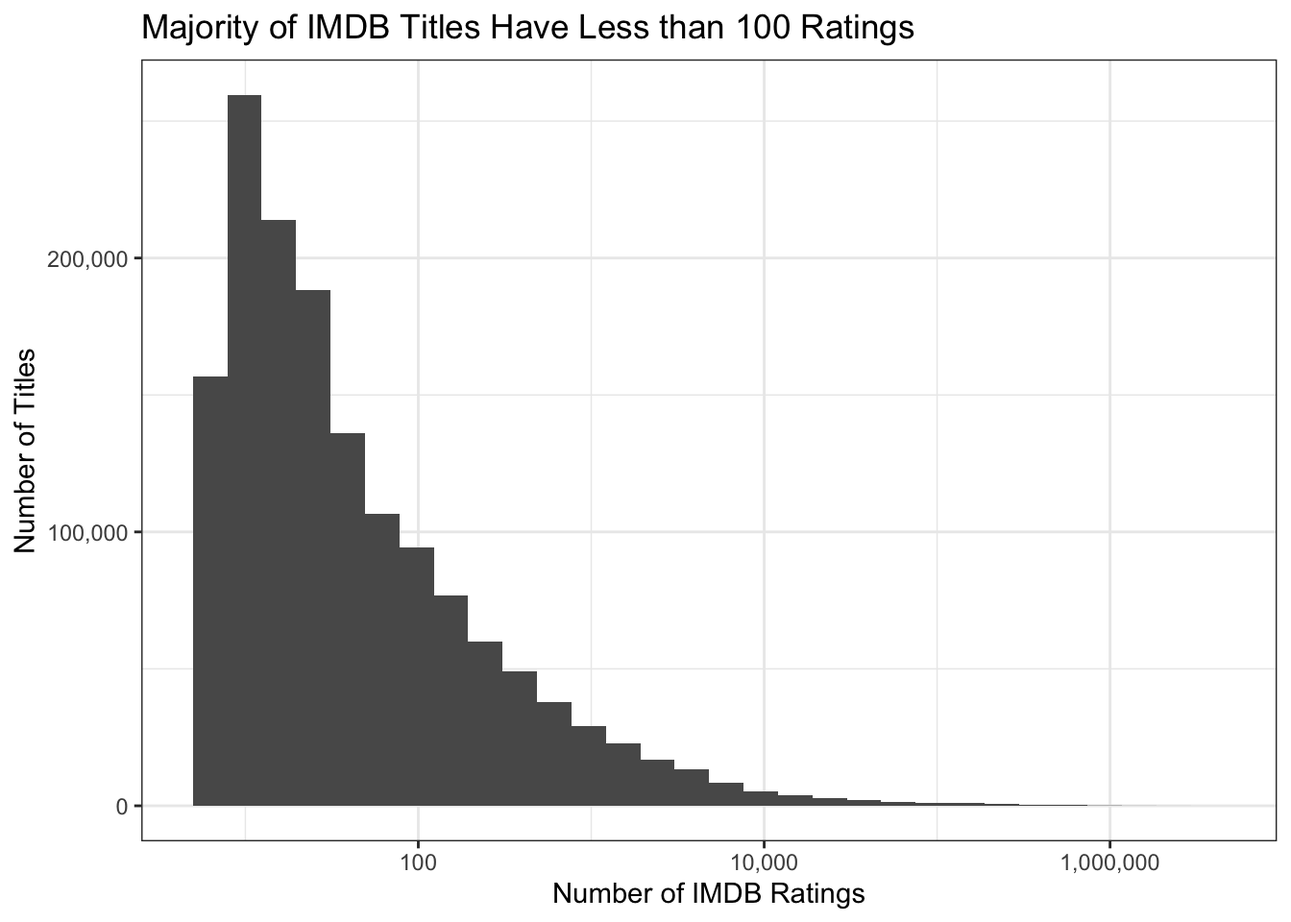
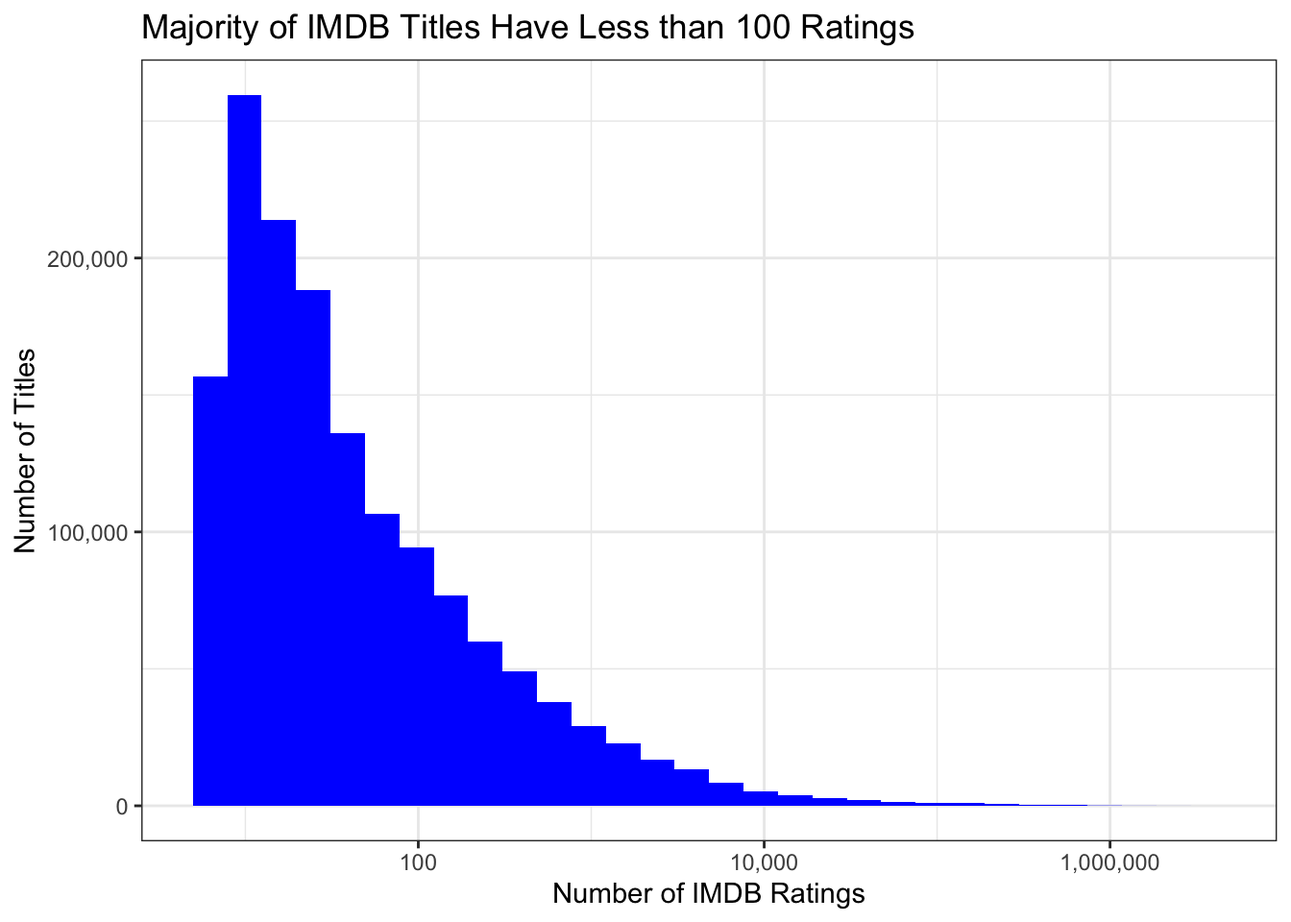
3rd commit

Changed region(s): [[0.125, 0.0938, 0.7188, 0.875]]

diff --git a/docs/MP02.html b/docs/MP02.html
@@ -180,7 +180,7 @@ pre > code.sourceCode > span > a:first-child::before { text-decoration: underlin
 <div class="sourceCode cell-code" id="cb1"><pre class="sourceCode r code-with-copy"><code class="sourceCode r"><span id="cb1-1"><a href="#cb1-1" aria-hidden="true" tabindex="-1"></a><span class="fu">library</span>(ggplot2)</span>
 <span id="cb1-2"><a href="#cb1-2" aria-hidden="true" tabindex="-1"></a>TITLE_RATINGS <span class="sc">|&gt;</span></span>
 <span id="cb1-3"><a href="#cb1-3" aria-hidden="true" tabindex="-1"></a>    <span class="fu">ggplot</span>(<span class="fu">aes</span>(<span class="at">x=</span>numVotes)) <span class="sc">+</span> </span>
-<span id="cb1-4"><a href="#cb1-4" aria-hidden="true" tabindex="-1"></a>    <span class="fu">geom_histogram</span>(<span class="at">bins=</span><span class="dv">30</span>) <span class="sc">+</span></span>
+<span id="cb1-4"><a href="#cb1-4" aria-hidden="true" tabindex="-1"></a>    <span class="fu">geom_histogram</span>(<span class="at">bins=</span><span class="dv">30</span>,<span class="at">fill=</span><span class="st">'blue'</span>) <span class="sc">+</span></span>
 <span id="cb1-5"><a href="#cb1-5" aria-hidden="true" tabindex="-1"></a>    <span class="fu">xlab</span>(<span class="st">"Number of IMDB Ratings"</span>) <span class="sc">+</span> </span>
 <span id="cb1-6"><a href="#cb1-6" aria-hidden="true" tabindex="-1"></a>    <span class="fu">ylab</span>(<span class="st">"Number of Titles"</span>) <span class="sc">+</span> </span>
 <span id="cb1-7"><a href="#cb1-7" aria-hidden="true" tabindex="-1"></a>    <span class="fu">ggtitle</span>(<span class="st">"Majority of IMDB Titles Have Less than 100 Ratings"</span>) <span class="sc">+</span> </span>
@@ -514,8 +514,8 @@ Caused by warning:
 <span id="cb31-12"><a href="#cb31-12" aria-hidden="true" tabindex="-1"></a>  <span class="at">pageLength =</span> <span class="dv">5</span>))</span></code><button title="Copy to Clipboard" class="code-copy-button"><i class="bi"></i></button></pre></div>
 </details>
 <div class="cell-output-display">
-<div class="datatables html-widget html-fill-item" id="htmlwidget-7efa1893bc1eca686317" style="width:100%;height:auto;"></div>
-<script type="application/json" data-for="htmlwidget-7efa1893bc1eca686317">{"x":{"filter":"top","vertical":false,"filterHTML":"<tr>\n  <td><\/td>\n  <td data-type=\"character\" style=\"vertical-align: top;\">\n    <div class=\"form-group has-feedback\" style=\"margin-bottom: auto;\">\n      <input type=\"search\" placeholder=\"All\" class=\"form-control\" style=\"width: 100%;\"/>\n      <span class=\"glyphicon glyphicon-remove-circle form-control-feedback\"><\/span>\n    <\/div>\n  <\/td>\n  <td data-type=\"number\" style=\"vertical-align: top;\">\n    <div class=\"form-group has-feedback\" style=\"margin-bottom: auto;\">\n      <input type=\"search\" placeholder=\"All\" class=\"form-control\" style=\"width: 100%;\"/>\n      <span class=\"glyphicon glyphicon-remove-circle form-control-feedback\"><\/span>\n    <\/div>\n    <div style=\"display: none;position: absolute;width: 200px;opacity: 1\">\n      <div data-min=\"9.5\" data-max=\"9.7\" data-scale=\"1\"><\/div>\n      <span style=\"float: left;\"><\/span>\n      <span style=\"float: right;\"><\/span>\n    <\/div>\n  <\/td>\n  <td data-type=\"integer\" style=\"vertical-align: top;\">\n    <div class=\"form-group has-feedback\" style=\"margin-bottom: auto;\">\n      <input type=\"search\" placeholder=\"All\" class=\"form-control\" style=\"width: 100%;\"/>\n      <span class=\"glyphicon glyphicon-remove-circle form-control-feedback\"><\/span>\n    <\/div>\n    <div style=\"display: none;position: absolute;width: 200px;opacity: 1\">\n      <div data-min=\"1\" data-max=\"3\"><\/div>\n      <span style=\"float: left;\"><\/span>\n      <span style=\"float: right;\"><\/span>\n    <\/div>\n  <\/td>\n<\/tr>","data":[["1","2","3","4","5","6","7","8","9","10","11","12","13","14","15","16","17","18","19","20","21","22","23","24","25","26","27","28","29","30","31","32","33","34","35"],["Prime Time","Choufli Hal","Friday Five Sharp","Craft Games","Jogandofoddaci","Dylan Is In Trouble","Amrutham","Coke Studio Pakistan","Upanishad Ganga","Marmadesam","The Why Files","OneyPlays","De'ah Da'iah","Microwave Society","Gumbino","Kothao Keu Nei","Breaking Bad","Minecraft Epic","Unus Annus","Herne Katha","Viva La Dirt League","Freaking Fucking Games","Internet Comment Etiquette","Geografens testamente","Londra Merkez","Train Guy","Stampy's Lovely World","LuxuryDark","Barstool Yak","SuperMega","Shriyut Gangadhar Tipre","Kino+","Raja Shivchhatrapati","Sakin Sarisuri","I stin Alpha i sti Vita oloi pan gia ti marmita"],[9.699999999999999,9.699999999999999,9.699999999999999,9.699999999999999,9.699999999999999,9.6,9.6,9.6,9.6,9.6,9.6,9.6,9.6,9.6,9.6,9.6,9.5,9.5,9.5,9.5,9.5,9.5,9.5,9.5,9.5,9.5,9.5,9.5,9.5,9.5,9.5,9.5,9.5,9.5,9.5],[1,1,1,1,1,2,2,2,2,2,2,2,2,2,2,2,3,3,3,3,3,3,3,3,3,3,3,3,3,3,3,3,3,3,3]],"container":"<table class=\"display\">\n  <thead>\n    <tr>\n      <th> <\/th>\n      <th>primaryTitle<\/th>\n      <th>averageRating<\/th>\n      <th>rank<\/th>\n    <\/tr>\n  <\/thead>\n<\/table>","options":{"pageLength":5,"columnDefs":[{"className":"dt-right","targets":[2,3]},{"orderable":false,"targets":0},{"name":" ","targets":0},{"name":"primaryTitle","targets":1},{"name":"averageRating","targets":2},{"name":"rank","targets":3}],"order":[],"autoWidth":false,"orderClasses":false,"orderCellsTop":true,"lengthMenu":[5,10,25,50,100]}},"evals":[],"jsHooks":[]}</script>
+<div class="datatables html-widget html-fill-item" id="htmlwidget-d1aaddb601b54985b06d" style="width:100%;height:auto;"></div>
+<script type="application/json" data-for="htmlwidget-d1aaddb601b54985b06d">{"x":{"filter":"top","vertical":false,"filterHTML":"<tr>\n  <td><\/td>\n  <td data-type=\"character\" style=\"vertical-align: top;\">\n    <div class=\"form-group has-feedback\" style=\"margin-bottom: auto;\">\n      <input type=\"search\" placeholder=\"All\" class=\"form-control\" style=\"width: 100%;\"/>\n      <span class=\"glyphicon glyphicon-remove-circle form-control-feedback\"><\/span>\n    <\/div>\n  <\/td>\n  <td data-type=\"number\" style=\"vertical-align: top;\">\n    <div class=\"form-group has-feedback\" style=\"margin-bottom: auto;\">\n      <input type=\"search\" placeholder=\"All\" class=\"form-control\" style=\"width: 100%;\"/>\n      <span class=\"glyphicon glyphicon-remove-circle form-control-feedback\"><\/span>\n    <\/div>\n    <div style=\"display: none;position: absolute;width: 200px;opacity: 1\">\n      <div data-min=\"9.5\" data-max=\"9.7\" data-scale=\"1\"><\/div>\n      <span style=\"float: left;\"><\/span>\n      <span style=\"float: right;\"><\/span>\n    <\/div>\n  <\/td>\n  <td data-type=\"integer\" style=\"vertical-align: top;\">\n    <div class=\"form-group has-feedback\" style=\"margin-bottom: auto;\">\n      <input type=\"search\" placeholder=\"All\" class=\"form-control\" style=\"width: 100%;\"/>\n      <span class=\"glyphicon glyphicon-remove-circle form-control-feedback\"><\/span>\n    <\/div>\n    <div style=\"display: none;position: absolute;width: 200px;opacity: 1\">\n      <div data-min=\"1\" data-max=\"3\"><\/div>\n      <span style=\"float: left;\"><\/span>\n      <span style=\"float: right;\"><\/span>\n    <\/div>\n  <\/td>\n<\/tr>","data":[["1","2","3","4","5","6","7","8","9","10","11","12","13","14","15","16","17","18","19","20","21","22","23","24","25","26","27","28","29","30","31","32","33","34","35"],["Prime Time","Choufli Hal","Friday Five Sharp","Craft Games","Jogandofoddaci","Dylan Is In Trouble","Amrutham","Coke Studio Pakistan","Upanishad Ganga","Marmadesam","The Why Files","OneyPlays","De'ah Da'iah","Microwave Society","Gumbino","Kothao Keu Nei","Breaking Bad","Minecraft Epic","Unus Annus","Herne Katha","Viva La Dirt League","Freaking Fucking Games","Internet Comment Etiquette","Geografens testamente","Londra Merkez","Train Guy","Stampy's Lovely World","LuxuryDark","Barstool Yak","SuperMega","Shriyut Gangadhar Tipre","Kino+","Raja Shivchhatrapati","Sakin Sarisuri","I stin Alpha i sti Vita oloi pan gia ti marmita"],[9.699999999999999,9.699999999999999,9.699999999999999,9.699999999999999,9.699999999999999,9.6,9.6,9.6,9.6,9.6,9.6,9.6,9.6,9.6,9.6,9.6,9.5,9.5,9.5,9.5,9.5,9.5,9.5,9.5,9.5,9.5,9.5,9.5,9.5,9.5,9.5,9.5,9.5,9.5,9.5],[1,1,1,1,1,2,2,2,2,2,2,2,2,2,2,2,3,3,3,3,3,3,3,3,3,3,3,3,3,3,3,3,3,3,3]],"container":"<table class=\"display\">\n  <thead>\n    <tr>\n      <th> <\/th>\n      <th>primaryTitle<\/th>\n      <th>averageRating<\/th>\n      <th>rank<\/th>\n    <\/tr>\n  <\/thead>\n<\/table>","options":{"pageLength":5,"columnDefs":[{"className":"dt-right","targets":[2,3]},{"orderable":false,"targets":0},{"name":" ","targets":0},{"name":"primaryTitle","targets":1},{"name":"averageRating","targets":2},{"name":"rank","targets":3}],"order":[],"autoWidth":false,"orderClasses":false,"orderCellsTop":true,"lengthMenu":[5,10,25,50,100]}},"evals":[],"jsHooks":[]}</script>
 </div>
 </div>
 </section>
@@ -563,7 +563,7 @@ Caused by warning:
 <span id="cb33-2"><a href="#cb33-2" aria-hidden="true" tabindex="-1"></a>  <span class="fu">geom_point</span>(<span class="at">size =</span> <span class="fl">2.5</span>, <span class="at">color =</span> <span class="st">"purple"</span>) <span class="sc">+</span></span>
 <span id="cb33-3"><a href="#cb33-3" aria-hidden="true" tabindex="-1"></a>  <span class="fu">geom_smooth</span>(<span class="at">se =</span> <span class="cn">FALSE</span>)<span class="sc">+</span></span>
 <span id="cb33-4"><a href="#cb33-4" aria-hidden="true" tabindex="-1"></a>  <span class="fu">labs</span>(<span class="at">title =</span> <span class="st">"Average Ratings of Happy Days by Season"</span>,</span>
-<span id="cb33-5"><a href="#cb33-5" aria-hidden="true" tabindex="-1"></a>       <span class="at">y =</span> <span class="st">"Average Rating"</span>, <span class="at">x =</span> <span class="st">"Season Number"</span>) <span class="sc">+</span></span>
+<span id="cb33-5"><a href="#cb33-5" aria-hidden="true" tabindex="-1"></a>       <span class="at">y =</span> <span class="st">"Seasonal Average Rating"</span>, <span class="at">x =</span> <span class="st">"Season Number"</span>) <span class="sc">+</span></span>
 <span id="cb33-6"><a href="#cb33-6" aria-hidden="true" tabindex="-1"></a>  <span class="fu">theme_bw</span>()</span></code><button title="Copy to Clipboard" class="code-copy-button"><i class="bi"></i></button></pre></div>
 </details>
 <div class="cell-output-display">
@@ -574,9 +574,7 @@ Caused by warning:
 </div>
 </div>
 </div>
-<p>The above chart shows more clearly that were was a decline in rating as the show went on it was trending upwards towards the last few seasons. This indicates the show runners might have caught on to declining ratings and made changes to account for it.</p>
-<section id="animated" class="level4">
-<h4 class="anchored" data-anchor-id="animated">Animated</h4>
+<p>The above chart shows more clearly that were was a decline in rating as the show went on it was trending upwards towards the last few seasons. This indicates the show runners might have caught on to declining ratings and made changes to account for it. Using an animation we can see how drastic the drop from the trend was.</p>
 <div class="cell">
 <details class="code-fold">
 <summary>Show the code</summary>
@@ -584,12 +582,15 @@ Caused by warning:
 <span id="cb34-2"><a href="#cb34-2" aria-hidden="true" tabindex="-1"></a> </span>
 <span id="cb34-3"><a href="#cb34-3" aria-hidden="true" tabindex="-1"></a><span class="fu">ggplot</span>(happy_days, <span class="fu">aes</span>(<span class="at">x =</span> seasonNumber, <span class="at">y =</span> season_average)) <span class="sc">+</span></span>
 <span id="cb34-4"><a href="#cb34-4" aria-hidden="true" tabindex="-1"></a>  <span class="fu">geom_point</span>(<span class="at">size =</span> <span class="dv">4</span>, <span class="at">color =</span> <span class="st">"purple"</span>) <span class="sc">+</span></span>
-<span id="cb34-5"><a href="#cb34-5" aria-hidden="true" tabindex="-1"></a>  <span class="fu">geom_line</span>(<span class="fu">aes</span>(<span class="at">y =</span> smooth_vals), <span class="at">colour =</span> <span class="st">"darkblue"</span>,<span class="at">linewidth =</span> <span class="dv">2</span>,<span class="at">linetype =</span> <span class="st">'dotdash'</span>) <span class="sc">+</span></span>
-<span id="cb34-6"><a href="#cb34-6" aria-hidden="true" tabindex="-1"></a>  <span class="fu">labs</span>(<span class="at">title =</span> <span class="st">"Average Ratings of Happy Days by Season"</span>, <span class="at">y =</span> <span class="st">"Average Rating"</span>, <span class="at">x =</span> <span class="st">"Season Number"</span>) <span class="sc">+</span></span>
-<span id="cb34-7"><a href="#cb34-7" aria-hidden="true" tabindex="-1"></a>  <span class="fu">theme_bw</span>() <span class="sc">+</span></span>
-<span id="cb34-8"><a href="#cb34-8" aria-hidden="true" tabindex="-1"></a>  <span class="fu">theme</span>(<span class="at">axis.text.x =</span> <span class="fu">element_blank</span>()) <span class="sc">+</span></span>
-<span id="cb34-9"><a href="#cb34-9" aria-hidden="true" tabindex="-1"></a>  <span class="fu">transition_reveal</span>(seasonNumber) <span class="sc">+</span></span>
-<span id="cb34-10"><a href="#cb34-10" aria-hidden="true" tabindex="-1"></a>  <span class="fu">ease_aes</span>(<span class="st">'linear'</span>)</span></code><button title="Copy to Clipboard" class="code-copy-button"><i class="bi"></i></button></pre></div>
+<span id="cb34-5"><a href="#cb34-5" aria-hidden="true" tabindex="-1"></a>  <span class="fu">geom_line</span>(<span class="fu">aes</span>(<span class="at">y =</span> smooth_vals, <span class="at">color =</span> <span class="st">"Predicted Trend"</span>), <span class="at">linewidth =</span> <span class="dv">2</span>, <span class="at">linetype =</span> <span class="st">'dotdash'</span>) <span class="sc">+</span></span>
+<span id="cb34-6"><a href="#cb34-6" aria-hidden="true" tabindex="-1"></a>  <span class="fu">labs</span>(<span class="at">title =</span> <span class="st">"Average Ratings of Happy Days by Season"</span>, </span>
+<span id="cb34-7"><a href="#cb34-7" aria-hidden="true" tabindex="-1"></a>       <span class="at">y =</span> <span class="st">"Seasonal Average Rating"</span>, </span>
+<span id="cb34-8"><a href="#cb34-8" aria-hidden="true" tabindex="-1"></a>       <span class="at">x =</span> <span class="st">"Season Number"</span>, </span>
+<span id="cb34-9"><a href="#cb34-9" aria-hidden="true" tabindex="-1"></a>       <span class="at">color =</span> <span class="st">"Legend"</span>) <span class="sc">+</span></span>
+<span id="cb34-10"><a href="#cb34-10" aria-hidden="true" tabindex="-1"></a>  <span class="fu">theme_bw</span>() <span class="sc">+</span></span>
+<span id="cb34-11"><a href="#cb34-11" aria-hidden="true" tabindex="-1"></a>  <span class="fu">transition_reveal</span>(seasonNumber) <span class="sc">+</span></span>
+<span id="cb34-12"><a href="#cb34-12" aria-hidden="true" tabindex="-1"></a>  <span class="fu">ease_aes</span>(<span class="st">'linear'</span>)<span class="sc">+</span></span>
+<span id="cb34-13"><a href="#cb34-13" aria-hidden="true" tabindex="-1"></a>   <span class="fu">theme</span>(<span class="at">legend.position =</span> <span class="st">"bottom"</span>)</span></code><button title="Copy to Clipboard" class="code-copy-button"><i class="bi"></i></button></pre></div>
 </details>
 <div class="cell-output-display">
 <div>
@@ -601,11 +602,150 @@ Caused by warning:
 </div>
 </section>
 </section>
+<section id="task-3-creating-a-metric" class="level2">
+<h2 class="anchored" data-anchor-id="task-3-creating-a-metric">Task 3: Creating a Metric</h2>
+<p>When deciding a metric its important to consider both the number of votes and the rating together. At first I thought we could simply do a ratio or multiplication of the two number to get a single value to judge the over all reception of a film, however this would cause some scores to be misleading. For example if we were to multiply the rating and number of votes, and say the higher the number the better, this would lead to some movies with large votes and low ratings to still be ranked relatively high. So to solve this problem I took three steps:</p>
+<ol type="1">
+<li><p><strong>Binning the Votes</strong>: The votes have a large number of variance between them, and in order to effectively use this data in a metric it would be best to bin them. I chose 10 bins, effectively making it so that the number of votes will be confined into a range 1-10, with each number having a range of votes similar to a histogram. To do this we use: <code>mutate(vote_bin = ntile(numVotes, n=10))</code></p></li>
+<li><p><strong>Taking the Log of the Scores:</strong> At first,I was messing with the idea of using a log to account for the issues previously stated but decided binning the data was best course of action. However, I found that taking the log of these numbers made the score between 0 and 1 thus making it so when we multiply it with the vote bin, a perfect rating had an overall score that was equal to the bin number. So a movie with a 10 average rating and a was in the highest bin(10) had a combined metric equal to 10.</p></li>
+<li><p><strong>Multiply the Log of the scores and the Vote Bin:</strong> This has the effective stated above. A film with a 10 rating and an sufficiently large number of votes will score an overall rating of 10, which I think makes this metric quite interesting. To make this metric sound fancy and grandiose ill call it the <em>“Cinematic Log Index”</em> .</p>
+<h4 id="choose-the-top-5-10-movies-on-your-metric-and-confirm-that-they-were-indeed-box-office-successes." class="anchored">1. Choose the top 5-10 movies on your metric and confirm that they were indeed box office successes.</h4>
+<div class="cell">
+<details class="code-fold">
+<summary>Show the code</summary>
+<div class="sourceCode cell-code" id="cb35"><pre class="sourceCode r code-with-copy"><code class="sourceCode r"><span id="cb35-1"><a href="#cb35-1" aria-hidden="true" tabindex="-1"></a>TITLE_BASICS <span class="ot">&lt;-</span> TITLE_BASICS <span class="sc">%&gt;%</span> </span>
+<span id="cb35-2"><a href="#cb35-2" aria-hidden="true" tabindex="-1"></a>  <span class="fu">inner_join</span>(TITLE_RATINGS,<span class="at">by =</span> <span class="st">'tconst'</span>)</span>
+<span id="cb35-3"><a href="#cb35-3" aria-hidden="true" tabindex="-1"></a> <span class="do">## creating a metric</span></span>
+<span id="cb35-4"><a href="#cb35-4" aria-hidden="true" tabindex="-1"></a>popular_titles <span class="ot">&lt;-</span> TITLE_BASICS <span class="sc">%&gt;%</span> </span>
+<span id="cb35-5"><a href="#cb35-5" aria-hidden="true" tabindex="-1"></a>  <span class="fu">filter</span>(numVotes <span class="sc">&gt;</span> <span class="dv">500</span>)</span>
+<span id="cb35-6"><a href="#cb35-6" aria-hidden="true" tabindex="-1"></a>popular_titles <span class="ot">&lt;-</span> popular_titles <span class="sc">%&gt;%</span> <span class="fu">mutate</span>(<span class="at">vote_bin =</span> <span class="fu">ntile</span>(numVotes, <span class="at">n=</span><span class="dv">10</span>))</span>
+<span id="cb35-7"><a href="#cb35-7" aria-hidden="true" tabindex="-1"></a>popular_titles <span class="ot">&lt;-</span> popular_titles <span class="sc">%&gt;%</span> </span>
+<span id="cb35-8"><a href="#cb35-8" aria-hidden="true" tabindex="-1"></a>  <span class="fu">mutate</span>(<span class="at">CLI =</span> <span class="fu">log10</span>(averageRating)<span class="sc">*</span>vote_bin)</span>
+<span id="cb35-9"><a href="#cb35-9" aria-hidden="true" tabindex="-1"></a></span>
+<span id="cb35-10"><a href="#cb35-10" aria-hidden="true" tabindex="-1"></a>popular_titles <span class="sc">%&gt;%</span> </span>
+<span id="cb35-11"><a href="#cb35-11" aria-hidden="true" tabindex="-1"></a>  <span class="fu">select</span>(primaryTitle,CLI) <span class="sc">%&gt;%</span> </span>
+<span id="cb35-12"><a href="#cb35-12" aria-hidden="true" tabindex="-1"></a>  <span class="fu">arrange</span>(<span class="fu">desc</span>(CLI)) <span class="sc">%&gt;%</span> </span>
+<span id="cb35-13"><a href="#cb35-13" aria-hidden="true" tabindex="-1"></a>  <span class="fu">head</span>(<span class="dv">10</span>)</span></code><button title="Copy to Clipboard" class="code-copy-button"><i class="bi"></i></button></pre></div>
+</details>
+<div class="cell-output cell-output-stdout">
+<pre><code>                         primaryTitle       CLI
+1                          Ozymandias 10.000000
+2                  Everyone's Waiting  9.956352
+3          The View from Halfway Down  9.956352
+4                 End of the Prologue  9.956352
+5  Sozin's Comet, Part 4: Avatar Aang  9.956352
+6                  Plan and Execution  9.956352
+7                            Face Off  9.956352
+8                    Connor's Wedding  9.956352
+9              The Rains of Castamere  9.956352
+10                             Felina  9.956352</code></pre>
+</div>
+</div></li>
+</ol>
+<p>The results show the Breaking Bad episode being number 1 and a number of extremely popular TV programs following, including Avatar, Succession, Bojack Horseman, Six Feet Under, and Game of Thrones. Lets filter for movies and see the results.</p>
+<div class="cell">
+<details class="code-fold">
+<summary>Show the code</summary>
+<div class="sourceCode cell-code" id="cb37"><pre class="sourceCode r code-with-copy"><code class="sourceCode r"><span id="cb37-1"><a href="#cb37-1" aria-hidden="true" tabindex="-1"></a> popular_titles <span class="sc">%&gt;%</span> </span>
+<span id="cb37-2"><a href="#cb37-2" aria-hidden="true" tabindex="-1"></a>   <span class="fu">filter</span>(titleType <span class="sc">==</span> <span class="st">"movie"</span>) <span class="sc">%&gt;%</span> </span>
+<span id="cb37-3"><a href="#cb37-3" aria-hidden="true" tabindex="-1"></a>   <span class="fu">select</span>(primaryTitle,CLI) <span class="sc">%&gt;%</span> </span>
+<span id="cb37-4"><a href="#cb37-4" aria-hidden="true" tabindex="-1"></a>  <span class="fu">arrange</span>(<span class="fu">desc</span>(CLI)) <span class="sc">%&gt;%</span> </span>
+<span id="cb37-5"><a href="#cb37-5" aria-hidden="true" tabindex="-1"></a>  <span class="fu">head</span>(<span class="dv">10</span>)</span></code><button title="Copy to Clipboard" class="code-copy-button"><i class="bi"></i></button></pre></div>
+</details>
+<div class="cell-output cell-output-stdout">
+<pre><code>                                    primaryTitle      CLI
+1                       The Shawshank Redemption 9.684829
+2                                  The Godfather 9.637878
+3                                The Chaos Class 9.637878
+4            Ramayana: The Legend of Prince Rama 9.637878
+5                                   12 Angry Men 9.542425
+6                          The Godfather Part II 9.542425
+7                               Schindler's List 9.542425
+8  The Lord of the Rings: The Return of the King 9.542425
+9                                The Dark Knight 9.542425
+10                                         Kaiva 9.542425</code></pre>
+</div>
+</div>
+<p>As you can see these are some of the best movies of all time including The Godfather, 12 Angry Men, and the Lord of the Rings and The Dark Knight in the 8th and 9th positions.</p>
+<section id="choose-3-5-movies-with-large-numbers-of-imdb-votes-that-score-poorly-on-your-success-metric-and-confirm-that-they-are-indeed-of-low-quality." class="level4">
+<h4 class="anchored" data-anchor-id="choose-3-5-movies-with-large-numbers-of-imdb-votes-that-score-poorly-on-your-success-metric-and-confirm-that-they-are-indeed-of-low-quality.">2. Choose 3-5 movies with large numbers of IMDb votes that score poorly on your success metric and confirm that they are indeed of low quality.</h4>
+<div class="cell">
+<details class="code-fold">
+<summary>Show the code</summary>
+<div class="sourceCode cell-code" id="cb39"><pre class="sourceCode r code-with-copy"><code class="sourceCode r"><span id="cb39-1"><a href="#cb39-1" aria-hidden="true" tabindex="-1"></a> popular_titles <span class="sc">%&gt;%</span> </span>
+<span id="cb39-2"><a href="#cb39-2" aria-hidden="true" tabindex="-1"></a>  <span class="fu">select</span>(primaryTitle,CLI,vote_bin) <span class="sc">%&gt;%</span> </span>
+<span id="cb39-3"><a href="#cb39-3" aria-hidden="true" tabindex="-1"></a>  <span class="fu">arrange</span>(<span class="fu">desc</span>(vote_bin),CLI) <span class="sc">%&gt;%</span> </span>
+<span id="cb39-4"><a href="#cb39-4" aria-hidden="true" tabindex="-1"></a>  <span class="fu">head</span>(<span class="dv">10</span>)</span></code><button title="Copy to Clipboard" class="code-copy-button"><i class="bi"></i></button></pre></div>
+</details>
+<div class="cell-output cell-output-stdout">
+<pre><code>                     primaryTitle       CLI vote_bin
+1                            Reis 0.0000000       10
+2  Cumali Ceber: Allah Seni Alsin 0.0000000       10
+3                  The Pogmentary 0.4139269       10
+4                     Golden Bull 0.4139269       10
+5                The Last Pharaoh 0.4139269       10
+6               Daniel the Wizard 0.7918125       10
+7            15/07: Break of Dawn 0.7918125       10
+8                 Queen Cleopatra 0.7918125       10
+9                        Smolensk 0.7918125       10
+10                        Sadak 2 0.7918125       10</code></pre>
+</div>
+</div>
+<p>As you can see this query returns a handful of garbage films like “The Pogmentary”, which has articles calling it the worst TV show or Movie on IMDB of all time.</p>
 </section>
-<section id="task-3" class="level2">
-<h2 class="anchored" data-anchor-id="task-3">Task 3</h2>
+<section id="choose-a-prestige-actor-or-director-and-confirm-that-they-have-many-projects-with-high-scores-on-your-success-metric." class="level4">
+<h4 class="anchored" data-anchor-id="choose-a-prestige-actor-or-director-and-confirm-that-they-have-many-projects-with-high-scores-on-your-success-metric.">3. Choose a prestige actor or director and confirm that they have many projects with high scores on your success metric.</h4>
+<p>Looks like the CLI works for popular actors as well. You can see that taking the vote bin into account the CLI is actually higher than the average rating.</p>
+</section>
+<section id="perform-at-least-one-other-form-of-spot-check-validation." class="level4">
+<h4 class="anchored" data-anchor-id="perform-at-least-one-other-form-of-spot-check-validation.">Perform at least one other form of ‘spot check’ validation.</h4>
+<p>Lets check two popular Ben Affleck movies both known for their “quality”.</p>
+<div class="cell">
+<details class="code-fold">
+<summary>Show the code</summary>
+<div class="sourceCode cell-code" id="cb41"><pre class="sourceCode r code-with-copy"><code class="sourceCode r"><span id="cb41-1"><a href="#cb41-1" aria-hidden="true" tabindex="-1"></a>popular_titles <span class="sc">%&gt;%</span></span>
+<span id="cb41-2"><a href="#cb41-2" aria-hidden="true" tabindex="-1"></a>  <span class="fu">filter</span>(primaryTitle <span class="sc">==</span> <span class="st">"Gigli"</span><span class="sc">|</span>primaryTitle <span class="sc">==</span> <span class="st">'Good Will Hunting'</span>) <span class="sc">%&gt;%</span> </span>
+<span id="cb41-3"><a href="#cb41-3" aria-hidden="true" tabindex="-1"></a>  <span class="fu">select</span>(CLI,primaryTitle,vote_bin) <span class="sc">%&gt;%</span> </span>
+<span id="cb41-4"><a href="#cb41-4" aria-hidden="true" tabindex="-1"></a>  <span class="fu">distinct</span>(primaryTitle,<span class="at">.keep_all =</span> <span class="cn">TRUE</span>)</span></code><button title="Copy to Clipboard" class="code-copy-button"><i class="bi"></i></button></pre></div>
+</details>
+<div class="cell-output cell-output-stdout">
+<pre><code>       CLI      primaryTitle vote_bin
+1 9.190781 Good Will Hunting       10
+2 4.149733             Gigli       10</code></pre>
+</div>
+</div>
+<p>The CLI score works as expected here.</p>
+</section>
+<section id="come-up-with-a-numerical-threshold-for-a-project-to-be-a-success-that-is-determine-a-value-v-such-that-movies-above-v-are-all-solid-or-better." class="level4">
+<h4 class="anchored" data-anchor-id="come-up-with-a-numerical-threshold-for-a-project-to-be-a-success-that-is-determine-a-value-v-such-that-movies-above-v-are-all-solid-or-better.">5. Come up with a numerical threshold for a project to be a ‘success’; that is, determine a value v such that movies above v are all “solid” or better.</h4>
+<p>Based on the results below, and a confirmation with Google, 8 seems to be a great threshold.</p>
+<div class="cell">
+<details class="code-fold">
+<summary>Show the code</summary>
+<div class="sourceCode cell-code" id="cb43"><pre class="sourceCode r code-with-copy"><code class="sourceCode r"><span id="cb43-1"><a href="#cb43-1" aria-hidden="true" tabindex="-1"></a>popular_titles <span class="sc">%&gt;%</span></span>
+<span id="cb43-2"><a href="#cb43-2" aria-hidden="true" tabindex="-1"></a>  <span class="fu">filter</span>(CLI <span class="sc">&gt;=</span> <span class="dv">8</span> <span class="sc">&amp;</span> startYear <span class="sc">&gt;</span> <span class="dv">2000</span>) <span class="sc">%&gt;%</span> </span>
+<span id="cb43-3"><a href="#cb43-3" aria-hidden="true" tabindex="-1"></a>  <span class="fu">select</span>(CLI,primaryTitle,vote_bin) <span class="sc">%&gt;%</span> </span>
+<span id="cb43-4"><a href="#cb43-4" aria-hidden="true" tabindex="-1"></a>  <span class="fu">arrange</span>(CLI) <span class="sc">%&gt;%</span> </span>
+<span id="cb43-5"><a href="#cb43-5" aria-hidden="true" tabindex="-1"></a>  <span class="fu">distinct</span>(primaryTitle,<span class="at">.keep_all =</span> <span class="cn">TRUE</span>) <span class="sc">%&gt;%</span> </span>
+<span id="cb43-6"><a href="#cb43-6" aria-hidden="true" tabindex="-1"></a>  <span class="fu">head</span>(<span class="dv">10</span>)</span></code><button title="Copy to Clipboard" class="code-copy-button"><i class="bi"></i></button></pre></div>
+</details>
+<div class="cell-output cell-output-stdout">
+<pre><code>        CLI    primaryTitle vote_bin
+1  8.028851           Baran        9
+2  8.028851          Doom 3        9
+3  8.028851        John Doe        9
+4  8.028851           Oasis        9
+5  8.028851  Soldier's Girl        9
+6  8.028851   Fruits Basket        9
+7  8.028851 Innocent Voices        9
+8  8.028851 Live and Become        9
+9  8.028851   Riding Giants        9
+10 8.028851           Simon        9</code></pre>
+</div>
+</div>
 
 
+</section>
 </section>
 
 </main> <!-- /main -->
